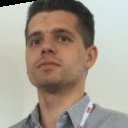
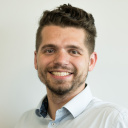
Update photo and talk title for 2019 speaker Przemysław Krzywania

diff --git a/2019/src/index.html b/2019/src/index.html
@@ -321,9 +321,7 @@
                                     <a target="_blank" href="https://www.linkedin.com/in/pkrzywania/"><i class="fa fa-linkedin"></i></a>
                                 </small>
                                 <br />
-                                <em>KICKME</em> (keep it complicated, keep me employed) vs.
-                                <em>KISS</em> (keep it simple, stupid),
-                                czyli – czy dług techniczny zawsze jest zły?
+                                KICKME – keep it complicated, keep me employed
                             </td>
                         </tr>
                         <tr class="dinner">

diff --git a/2019/src/polish.html b/2019/src/polish.html
@@ -319,9 +319,7 @@
                                     <a target="_blank" href="https://www.linkedin.com/in/pkrzywania/"><i class="fa fa-linkedin"></i></a>
                                 </small>
                                 <br />
-                                <em>KICKME</em> (keep it complicated, keep me employed) vs.
-                                <em>KISS</em> (keep it simple, stupid),
-                                czyli – czy dług techniczny zawsze jest zły?
+                                KICKME – keep it complicated, keep me employed
                             </td>
                         </tr>
                         <tr class="dinner">
